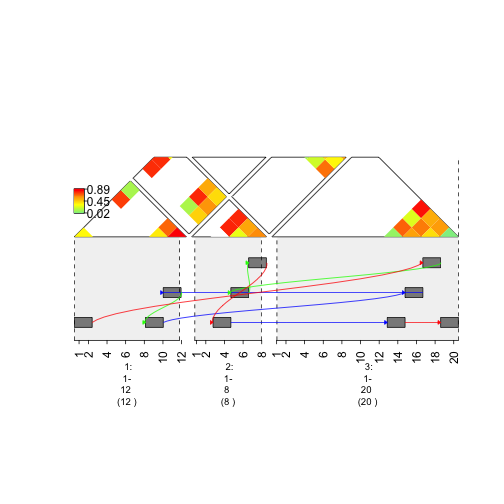
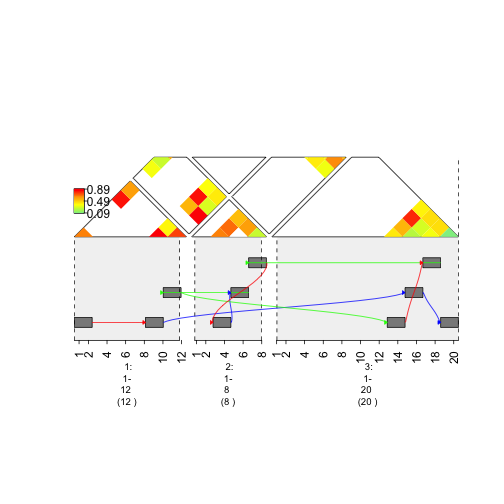
edit vignette

diff --git a/rtdocs/vignetteHeatGraph/vignetteHeatGraph.rst b/rtdocs/vignetteHeatGraph/vignetteHeatGraph.rst
@@ -109,6 +109,9 @@ If a **matrix** is used to create a graph, color and style of edges can't be spe
 .. sourcecode:: r
     
 
+    ##from column specifies the beginning node (range)
+    ##to column specifies the end node (range)
+    ##col specifies the color of the edge 
     graph = data.frame(from = 1:9, to = sample(1 + 1:9) , col = c('red', 'blue', 'green'))
 
 
@@ -122,6 +125,33 @@ If a **matrix** is used to create a graph, color and style of edges can't be spe
     :alt: plot of chunk colored-graph
 
     plot of chunk colored-graph
+
+Time to change the **width** of the graph
+
+
+.. sourcecode:: r
+    
+
+    ## lwd column specifies the width of the edge 
+     graph$lwd = runif(length(9) +1)
+
+
+::
+
+    ## Error in `$<-.data.frame`(`*tmp*`, "lwd", value = c(0.418266233755276, : replacement has 2 rows, data has 9
+
+
+
+
+.. sourcecode:: r
+    
+
+    plot(gTrack(gr, edges = graph, stack.gap = 5))
+
+.. figure:: figure/width-graph-1.png
+    :alt: plot of chunk width-graph
+
+    plot of chunk width-graph
 
 
 **Add a Heat map to the plot!**
